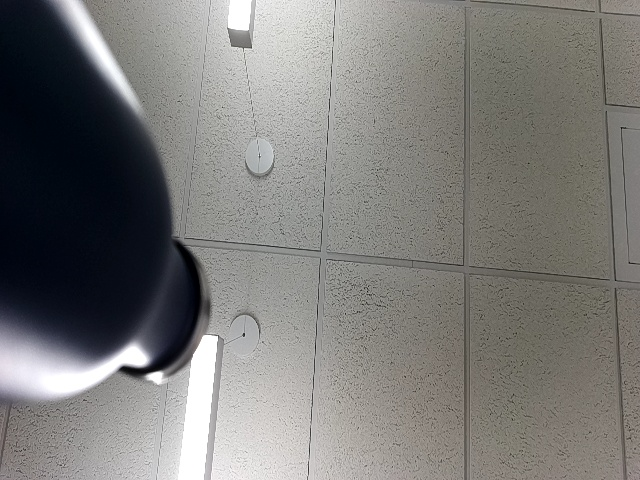
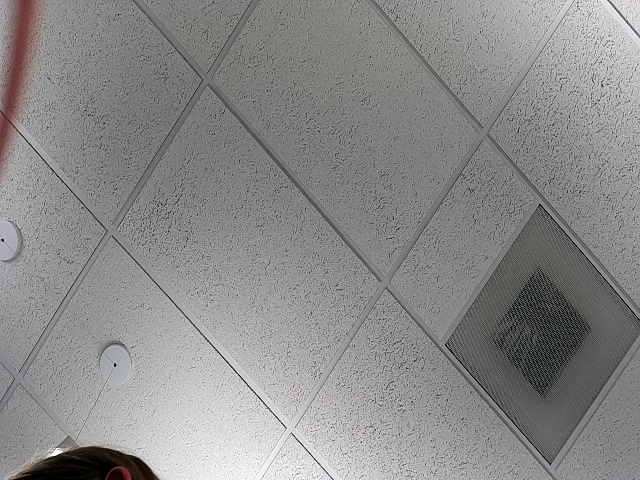
commit

diff --git a/Anemometer/WindDirection1.py b/Anemometer/WindDirection1.py
@@ -1,0 +1,113 @@
+import board
+import busio
+import adafruit_ads1x15.ads1115 as ADS
+from adafruit_ads1x15.analog_in import AnalogIn
+import time
+import dbus
+import dbus.service
+import dbus.mainloop.glib
+from gi.repository import GLib
+import threading
+
+# === D-Bus Service ===
+class WindDirectionService(dbus.service.Object):
+    def __init__(self, bus_name):
+        dbus.service.Object.__init__(self, bus_name, '/WindDirectionService')
+        self.wind_direction = None
+
+    @dbus.service.method("com.example.WindDirectionService",
+                         in_signature='', out_signature='s')
+    def GetWindDirection(self):
+        print(self.wind_direction)
+        if self.wind_direction is not None:
+            print(f"Sent wind direction: {self.wind_direction}")
+            return self.wind_direction
+        else:
+            return "Unknown"
+
+    def update_wind_direction(self, wind_direction):
+        self.wind_direction = wind_direction
+
+def run_dbus_service():
+    dbus.mainloop.glib.DBusGMainLoop(set_as_default=True)
+    session_bus = dbus.SessionBus()
+    bus_name = dbus.service.BusName("com.example.WindDirectionService", session_bus)
+    global wind_direction_service
+    wind_direction_service = WindDirectionService(bus_name)
+    # print("D-Bus service running...")
+    mainloop = GLib.MainLoop()
+    mainloop.run()
+
+# === Start D-Bus thread ===
+dbus_thread = threading.Thread(target=run_dbus_service)
+dbus_thread.daemon = True
+dbus_thread.start()
+
+# === I2C and ADC Setup ===
+i2c = busio.I2C(board.SCL, board.SDA)
+ads = ADS.ADS1115(i2c)
+ads.gain = 1  # ±4.096V range
+
+# === Constants ===
+V_IN = 3.3  # Input voltage
+R_FIXED = 10000  # 10k ohm fixed resistor
+
+# Resistance ranges for each direction (hardcoded)
+resistance_to_direction = [
+    ("N", 644, 646),
+    ("NE", 608, 611),
+    ("E", 394, 396),
+    ("SE", 505, 506),
+    ("S", 562, 564),
+    ("SW", 628, 633),
+    ("W", 654, 656),
+    ("NW", 648, 652),
+]
+
+last_direction = "Unknown"
+
+# === Helper Functions ===
+def voltage_to_resistance(voltage):
+    if voltage <= 0 or voltage >= V_IN:
+        return None
+    resistance = (R_FIXED * voltage) / (V_IN - voltage)
+    return resistance
+
+def resistance_to_wind_direction(resistance):
+    global last_direction
+    if resistance is None:
+        return last_direction
+
+    for direction, min_res, max_res in resistance_to_direction:
+        if min_res <= resistance <= max_res:
+            if direction != last_direction:
+                print(f"Direction changed: {last_direction} → {direction}")
+            last_direction = direction
+            return direction
+
+    return last_direction
+
+# === Main Loop with Averaging ===
+SAMPLES = 15  # Number of samples per reading
+DELAY_BETWEEN_SAMPLES = 0.05  # Time between samples (seconds)
+
+while True:
+    resistances = []
+
+    for _ in range(SAMPLES):
+        analog = AnalogIn(ads, ADS.P0)
+        voltage = analog.voltage
+        resistance = voltage_to_resistance(voltage)
+        if resistance is not None:
+            resistances.append(resistance)
+        time.sleep(DELAY_BETWEEN_SAMPLES)
+
+    if resistances:
+        avg_resistance = sum(resistances) / len(resistances)
+        direction = resistance_to_wind_direction(avg_resistance)
+        print(f"Averaged Resistance: {avg_resistance:.1f}Ω | Direction: {direction}")
+        wind_direction_service.update_wind_direction(direction)
+    else:
+        print("No valid resistance readings.")
+
+    time.sleep(1)

diff --git a/RPI-BLUETOOTH/bluetooth.py b/RPI-BLUETOOTH/bluetooth.py
@@ -90,7 +90,7 @@ def get_depth():
 def get_wind_speed():
     """Fetches the latest encoded image from the D-Bus service."""
     try:
-        bus = dbus.SystemBus()
+        bus = dbus.SessionBus()
         obj = bus.get_object("com.example.WindSpeedService", "/WindSpeedService")
         iface = dbus.Interface(obj, "com.example.WindSpeedService")
         wind_speed = iface.GetWindSpeed()
@@ -112,8 +112,8 @@ def get_wind_direction():
         iface = dbus.Interface(obj, "com.example.WindDirectionService")
         wind_direction = iface.GetWindDirection()
 
-        if wind_direction != "Unknown":
-            print("Wind Direction: ", wind_speed)
+        if wind_direction != None:
+            print("Wind Direction: ", wind_direction)
             return wind_direction
         else:
             print("No wind direction available from service.")
@@ -131,7 +131,7 @@ def get_gps_data():
 
         if gps_data is not None:
             gps_data = list(gps_data)  # Convert from dbus.Array to Python list
-            print(gps_data)
+            #print(gps_data)
             return gps_data
             
         else:
@@ -1129,6 +1129,7 @@ class AnemometerWindDirectionCharacteristic(Characteristic):
     def get_data(self):
         self.wind_dir = get_wind_direction()
         if not self.notifying:
+            print("NOT NOTIFYING WIND DIR")
             return True
         if (self.wind_dir):
             print('Wind Direction ' + repr(self.wind_dir))

diff --git a/GPS/GPSDbusTest.cpp b/GPS/GPSDbusTest.cpp
@@ -131,7 +131,6 @@ int main() {
     dbus_connection_add_filter(conn, handle_get_gps_data, nullptr, nullptr);
 
     int serial_fd = serialOpen(GPS_SERIAL_PORT, 9600);
-    sendCommand(PGCMD_ANTENNA);
     if (serial_fd < 0) {
         std::cerr << "Unable to open GPS serial port." << std::endl;
         return 1;
@@ -150,7 +149,7 @@ int main() {
 
             // Check for end of a line (NMEA sentence)
             if (c == '\n') {
-                //std::cout << line << std::endl;
+                std::cout << line << std::endl;
                 if (line.find("GGA") != std::string::npos) {
                     processGGA(line);
                 } 

diff --git a/Anemometer/WindDirection.py b/Anemometer/WindDirection.py
@@ -61,10 +61,10 @@ last_direction = "Unknown"
 
 # Resistance ranges for each direction
 resistance_to_direction = [
-    ("N", 601, 609.4),   # N range: 601-607 ohms
-    ("NE", 560, 578),  # NE range: 560-575 ohms
+    ("N", 644, 645.9),   # N range: 601-607 ohms
+    ("NE", 608.0, 610.9),  # NE range: 560-575 ohms
     ("E", 355, 390),   # E range: 355-390 ohms
-    ("SE", 475, 490),  # SE range: 475-490 ohms
+    ("SE", 397, 399),  # SE range: 475-490 ohms
     ("S", 510, 540),   # S range: 510-540 ohms
     ("SW", 580, 600),  # SW range: 580-600 ohms
     ("W", 614.5, 620),   # W range: 613-620 ohms

diff --git a/Anemometer/AneTest.py b/Anemometer/AneTest.py
@@ -33,7 +33,7 @@ class WindSpeedService(dbus.service.Object):
 def run_dbus_service():
     """Runs the D-Bus main loop in a separate thread."""
     dbus.mainloop.glib.DBusGMainLoop(set_as_default=True)
-    session_bus = dbus.SystemBus()
+    session_bus = dbus.SessionBus()
     bus_name_wind_speed = dbus.service.BusName("com.example.WindSpeedService", session_bus)
     global wind_speed_service
     wind_speed_service = WindSpeedService(bus_name_wind_speed)
